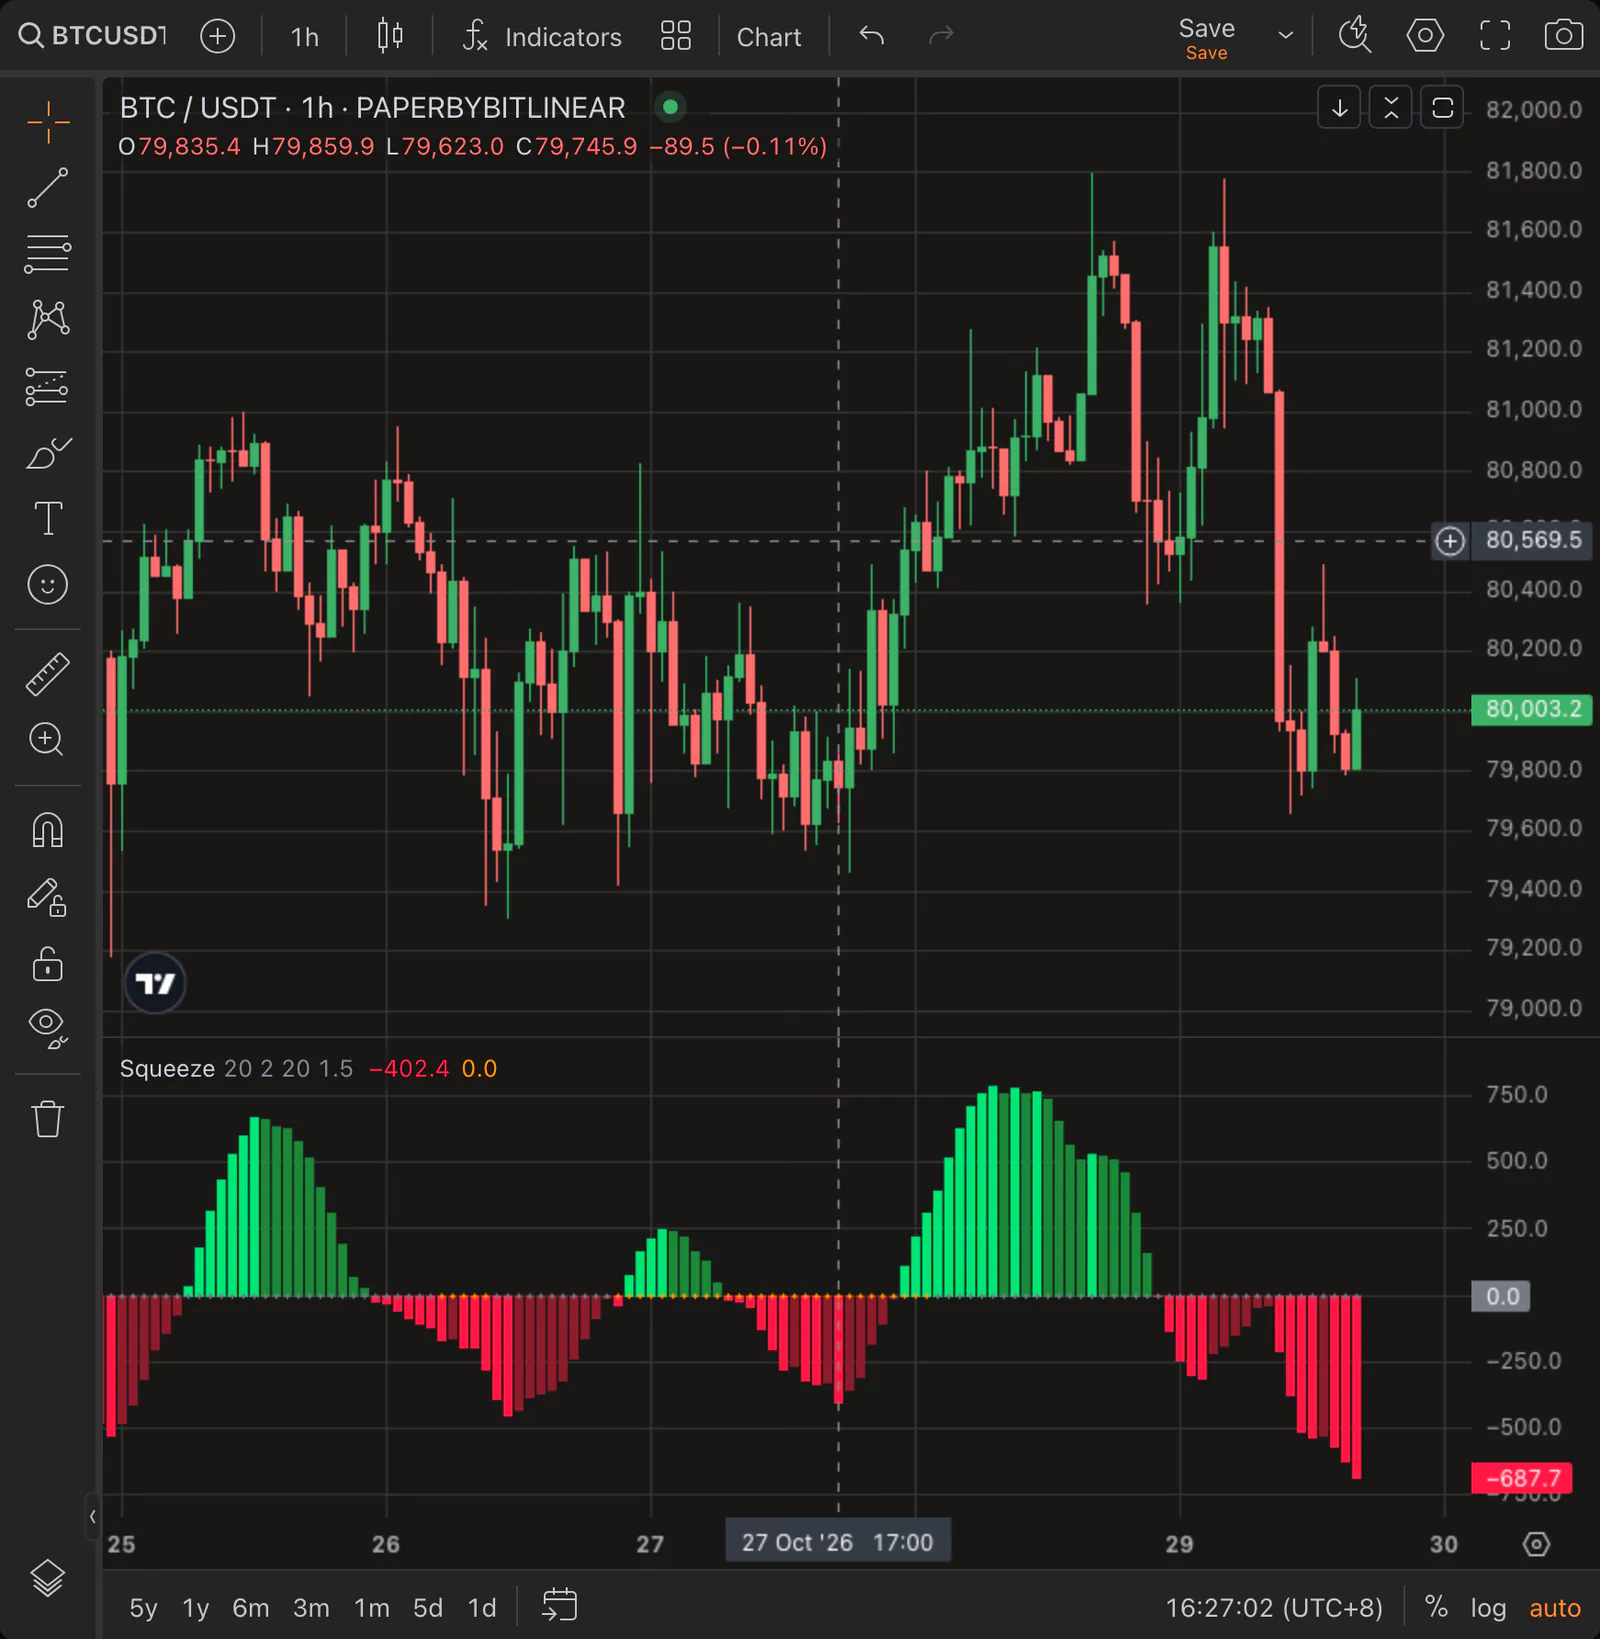
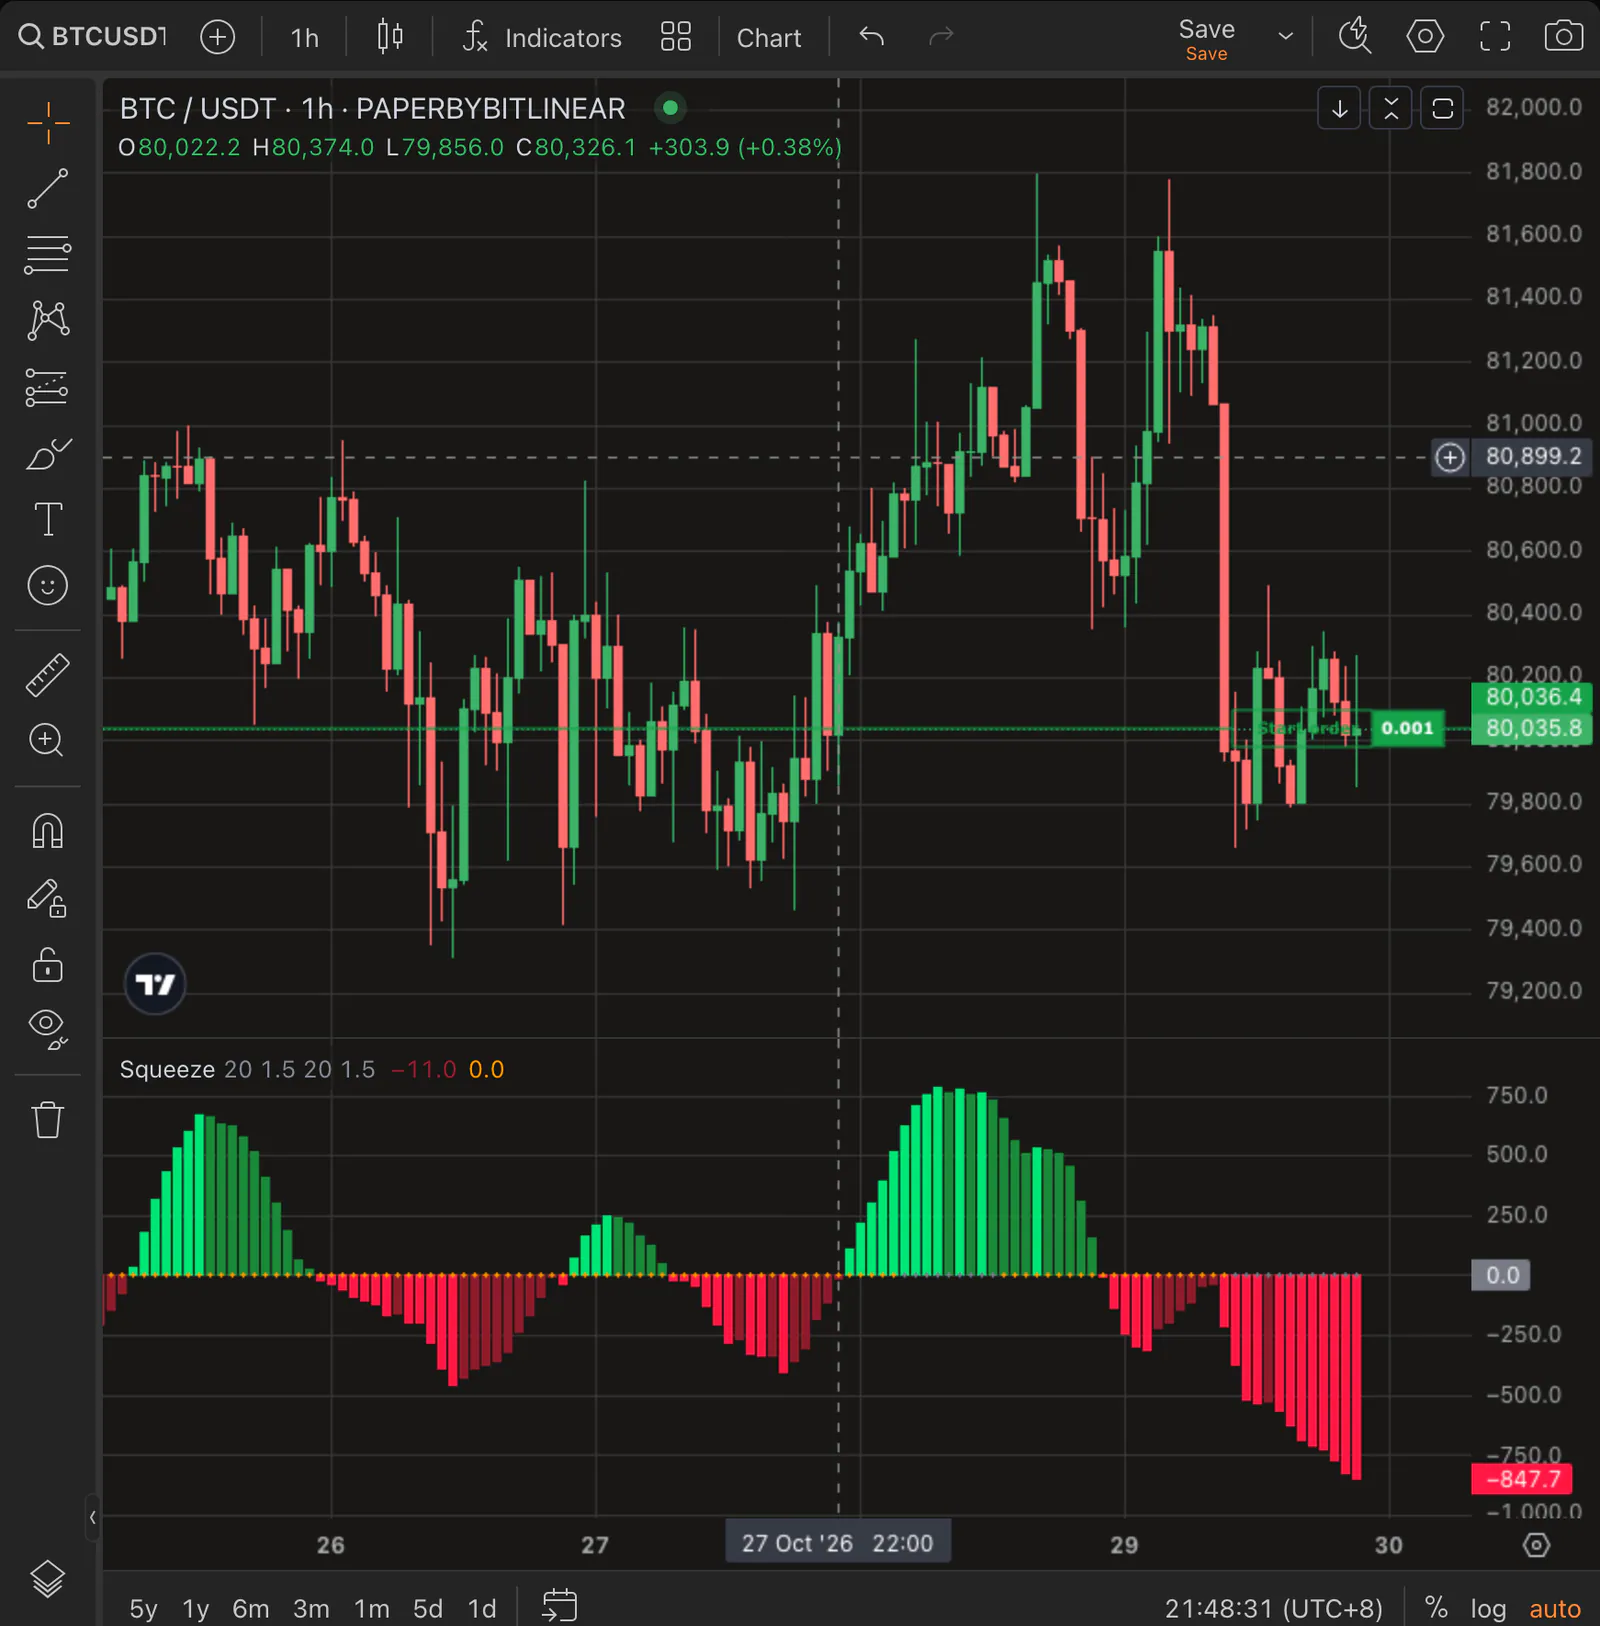
indicators: Squeeze Momentum default BB multiplier 1.5, the TradingView chart
main-dash-sh 2.126.0 / indicators 1.14.0 make 1.5 the default. The page
now says the default matches the script TradingView shows (it reads the
KC multiplier for the Bollinger Bands, so its BB input changes nothing),
with the 7,196-candle BTC/USDT 1h comparison: same squeeze on every
candle, same 124 fired + positive candles. 2 is LazyBear's corrected
version and Carter's TTM.

Settings table regenerated from the catalog; the How to read it numbers,
tips and the first setup restated at 1.5 (BTC/USDT 1h/4h, 2020-09 →
2026-10-28). The early-entry setup now asks for BB multiplier 2: with 2
the squeeze later fired up after 73% of 4h entries, against 58% at 1.5.
Settings card, bot chart and both annotated charts retaken at 1.5 (the
edge chip under the card is cropped off; it reads live data).

Edge recipe: the default row is now the 1.5 setting (same numbers as the
old fired-positive-bb15 row) and every row uses 1.5, matching the bot
params. A BB 2 row was tried for fired-positive and off-rising and
dropped: fired-positive at 2 was behind 1.5 on 1h (-0.03 vs 0.15) and
1d (-0.15 vs 6.07), ahead only on 4h (0.32 vs 0.02); off-rising at 2
was ahead on 1h (0.11 vs 0.08) but behind on 4h (-0.10 vs 0.02) and 1d
(0.96 vs 2.34).

diff --git a/docs/indicators/squeeze-momentum.md b/docs/indicators/squeeze-momentum.md
@@ -7,7 +7,7 @@ description: >-
   Keltner Channels mark a squeeze, a momentum histogram gives the direction,
   and a bot can trade when the squeeze fires.
 createdAt: '2026-10-29T12:00:00.000Z'
-updatedAt: '2026-10-29T12:00:00.000Z'
+updatedAt: '2026-10-29T13:00:00.000Z'
 publishedAt: '2026-10-29T12:00:00.000Z'
 locale: en
 categories:
@@ -22,13 +22,13 @@ ingestedAt: ''
 templateVersion: 2
 tldr: >-
   Squeeze Momentum is LazyBear's version of John Carter's TTM Squeeze. A
-  squeeze is on while the Bollinger Bands (20, 2) sit inside the Keltner
+  squeeze is on while the Bollinger Bands (20, 1.5) sit inside the Keltner
   Channels (20, 1.5 ATR); it fires on the first candle after that. A momentum
   histogram, a linear regression of price against the middle of its range,
   shows the direction. A bot condition combines the squeeze state (fired, in,
   out or any) with the momentum (positive, negative, rising, falling, crossing
-  zero or any). The script TradingView shows draws with a Bollinger multiplier
-  of 1.5; set BB multiplier 1.5 to match its chart.
+  zero or any). The default Bollinger multiplier, 1.5, matches the chart
+  TradingView shows; 2 is LazyBear's corrected version and Carter's original.
 kind: native
 catalogKeys:
   - SQZ
@@ -41,12 +41,14 @@ aliases:
   - "TTM Squeeze"
   - "Squeeze"
 faq:
-  - title: Why do my signals differ from the Squeeze Momentum chart on TradingView?
+  - title: Does it match the Squeeze Momentum chart on TradingView?
     details: >-
-      The script TradingView shows has the Bollinger multiplier fixed at 1.5
-      in its code, whatever its input says. LazyBear published the fix
-      separately. Gainium uses the fixed version, so set BB multiplier to 1.5
-      to match the TradingView chart, or keep 2 for the corrected formula.
+      Yes, with the default settings. The script TradingView shows uses its
+      KC multiplier for the Bollinger Bands too, so its BB MultFactor input
+      changes nothing, and Gainium's default BB multiplier is the same 1.5.
+      If you change KC multiplier, set BB multiplier to the same value to keep
+      matching that chart. Set BB multiplier 2 for LazyBear's corrected
+      version, which TradingView does not show.
   - title: What does Squeeze fired mean?
     details: >-
       The candle before was in a squeeze (Bollinger Bands inside the Keltner
@@ -81,7 +83,7 @@ Squeeze Momentum marks the stretches when Bollinger Bands contract inside the Ke
 
 John Carter described the TTM Squeeze in his book Mastering the Trade. LazyBear published Squeeze Momentum, his open version of it, on TradingView in 2014. It compares two bands around the same 20-candle average:
 
-**Bollinger Bands = SMA(close, 20) ± 2 × standard deviation(close, 20)**
+**Bollinger Bands = SMA(close, 20) ± 1.5 × standard deviation(close, 20)**
 
 **Keltner Channels = SMA(close, 20) ± 1.5 × SMA(true range, 20)**
 
@@ -97,11 +99,11 @@ It is above zero when price sits above the middle of its recent range and its av
 
 How to read it:
 
-- **Squeezes are common.** On BTC/USDT 1h the default settings are in a squeeze on about 35% of candles, and a median squeeze lasts 7 candles.
-- **About half of the fires point up.** On BTC/USDT 1h, momentum is above zero on about 53% of the candles where the squeeze fires.
-- **A fire means movement, not direction.** After a fire with positive momentum on BTC/USDT 4h, price moved 1.5% above the entry within 24 candles after about 70% of fires, and 1.5% below it after about 76%.
+- **Squeezes are the usual state.** On BTC/USDT 1h the default settings are in a squeeze on about 60% of candles, and a median squeeze lasts 14 candles.
+- **About half of the fires point up.** On BTC/USDT 1h, momentum is above zero on about 54% of the candles where the squeeze fires.
+- **A fire means movement, not direction.** After a fire with positive momentum on BTC/USDT 4h, price moved 1.5% above the entry within 24 candles after about 73% of fires, and 1.5% below it after about 71%.
 
-**TradingView's chart uses a multiplier of 1.5.** The script TradingView displays has the Bollinger multiplier fixed at 1.5 in its code, whatever the input says. LazyBear posted the corrected source separately, and Gainium uses that corrected formula. Set **BB multiplier** to 1.5 to get the squeezes TradingView draws.
+**The default matches TradingView's chart.** The Squeeze Momentum script TradingView displays uses its KC multiplier, 1.5, for the Bollinger Bands too, so its BB MultFactor input changes nothing. Gainium's default **BB multiplier** is the same 1.5. On 7,196 BTC/USDT 1h candles, Gainium and TradingView showed the same squeeze on every candle, and the squeeze fired with positive momentum on the same 124 candles. LazyBear posted a corrected source separately, in which the Bollinger multiplier is its own input, and John Carter's TTM Squeeze uses 2 standard deviations. Set **BB multiplier** to 2 for that version.
 
 ![Squeeze Momentum Indicator by LazyBear on BINANCE:BTCUSDT 4h, dark theme: the momentum histogram in green above zero and red below it, with grey crosses on the zero line out of a squeeze and dark crosses in one](https://content.gainium.io/images/content/indicators/squeeze-momentum__chart.webp)
 
@@ -110,7 +112,7 @@ How to read it:
 | Setting | Default | What it does |
 | --- | --- | --- |
 | BB length | 20 | Candles of the Bollinger Bands. |
-| BB multiplier | 2 | Width of the Bollinger Bands in standard deviations. TradingView's published script draws with 1.5; set 1.5 to match its chart. |
+| BB multiplier | 1.5 | Width of the Bollinger Bands in standard deviations. 1.5 (the default) matches the Squeeze Momentum chart TradingView shows; 2 is LazyBear's corrected version. |
 | KC length | 20 | Candles of the Keltner Channels, also the length of the momentum. |
 | KC multiplier | 1.5 | Width of the Keltner Channels as a multiple of the average true range. |
 | Interval | 1 hour | Candle size the squeeze and the momentum are calculated on, from 1 minute to 1 week. |
@@ -118,11 +120,11 @@ How to read it:
 | Momentum | Positive | The momentum histogram: above or below zero, higher or lower than on the candle before, or crossing zero. Both Squeeze and Momentum must hold; they cannot both be Any. |
 | Keep true | 0 | This condition will remain true for a number of extra bars. Default is 0, which means it will be true only on the bar that triggered the condition. |
 
-**Tip:** **BB multiplier** 1.5 instead of 2 puts BTC/USDT 1h in a squeeze on about 60% of candles instead of 35%. Squeezes last twice as long, with a median of 14 candles, and fire about 14% less often.
+**Tip:** **BB multiplier** 2 instead of 1.5 puts BTC/USDT 1h in a squeeze on about 35% of candles instead of 60%. Squeezes last half as long, with a median of 7 candles, and fire about 16% more often.
 
 **Tip:** **Squeeze** Squeeze fired is true on one candle per squeeze. In a squeeze is true on every candle of it, so with Momentum Positive a bot can open deal after deal while the squeeze lasts. Use In a squeeze with a crossing rule, or with a limit on open deals.
 
-**Tip:** **Momentum** Crossing up with Squeeze Any fires on every zero crossing of the histogram. On BTC/USDT 1h that is about 1.4 times as often as Squeeze fired with Positive.
+**Tip:** **Momentum** Crossing up with Squeeze Any fires on every zero crossing of the histogram. On BTC/USDT 1h that is about 1.6 times as often as Squeeze fired with Positive.
 
 ## Trading setups for bots
 
@@ -130,9 +132,9 @@ How to read it:
 
 - **Entry:** Squeeze Momentum, Squeeze **Squeeze fired**, Momentum **Positive**, default lengths and multipliers, Interval 4 hours.
 - **Exit:** take profit 1.5%, with a stop loss of 1.5% to 2%.
-- **Settings:** BB multiplier 2. With 1.5 the squeezes are longer and fire about 14% less often.
-- **Timeframe:** 4 hours. Price moved 1.5% above the entry within 24 candles after about 70% of the 4h fires, against 49% on 1h.
-- **When it fails:** when the breakout reverses. Price also moved 1.5% below the entry within 24 candles after about 76% of the 4h fires, so the move after a fire runs both ways. Keep the stop loss, or add a trend filter such as the Moving Averages trend filter.
+- **Settings:** the defaults, BB multiplier 1.5. With 2 the 4h squeezes fire about 6% more often, and price moved 1.5% below the entry after more of those fires (about 76%) than 1.5% above it (about 70%).
+- **Timeframe:** 4 hours. Price moved 1.5% above the entry within 24 candles after about 73% of the 4h fires, against 51% on 1h.
+- **When it fails:** when the breakout reverses. Price also moved 1.5% below the entry within 24 candles after about 71% of the 4h fires, so the move after a fire runs both ways. Keep the stop loss, or add a trend filter such as the Moving Averages trend filter.
 
 In the chart below, the first grey cross after a run of orange ones came with momentum already above zero. The squeeze fired there, and price climbed about 1% over the next day.
 
@@ -140,15 +142,15 @@ In the chart below, the first grey cross after a run of orange ones came with mo
 
 ### Enter early: momentum crosses up inside the squeeze
 
-- **Entry:** Squeeze Momentum, Squeeze **In a squeeze**, Momentum **Crossing up**, Interval 4 hours.
+- **Entry:** Squeeze Momentum, **BB multiplier** 2, Squeeze **In a squeeze**, Momentum **Crossing up**, Interval 4 hours.
 - **Exit:** take profit 1.5%, with a stop loss of 1.5% to 2%.
-- **Settings:** the defaults. The condition is true only on the candle the histogram crosses zero, so it opens one deal per crossing.
-- **Timeframe:** 4 hours. After about 73% of these entries on BTC/USDT 4h, the squeeze later fired with positive momentum; on 1h it was about 66%.
+- **Settings:** BB multiplier 2, the other fields at their defaults. With 2 the squeezes are shorter, so a crossing inside one comes closer to the fire. The condition is true only on the candle the histogram crosses zero, so it opens one deal per crossing.
+- **Timeframe:** 4 hours. After about 73% of these entries on BTC/USDT 4h, the squeeze later fired with positive momentum; on 1h it was about 66%. With the default 1.5 it was about 58% on 4h.
 - **When it fails:** when the squeeze fires down. The entry comes before the breakout, so about a quarter of the 4h entries were early longs into a fall. Price moved 1.5% below the entry within 24 candles after about 71% of them.
 
-In the chart below, momentum crossed up zero while the crosses were still orange, three candles before the squeeze fired.
+In the chart below, with the default 1.5, momentum crossed up zero while the crosses were still orange, five candles before the squeeze fired. With BB multiplier 2 the same squeeze fired two candles earlier.
 
-![Annotated Gainium bot chart, BTC/USDT 1h, with Squeeze Momentum: the first green histogram bar after a red stretch is ringed while the zero-line crosses are still orange, three candles before the squeeze fires](https://content.gainium.io/images/content/indicators/squeeze-momentum__cross-up.webp)
+![Annotated Gainium bot chart, BTC/USDT 1h, with Squeeze Momentum: the first green histogram bar after a red stretch is ringed while the zero-line crosses are still orange, five candles before the squeeze fires](https://content.gainium.io/images/content/indicators/squeeze-momentum__cross-up.webp)
 
 ## Using Squeeze Momentum in Gainium
 
@@ -161,7 +163,7 @@ In the chart below, momentum crossed up zero while the crosses were still orange
 The fields and their defaults:
 
 - **BB length:** 20, from 2 to 500.
-- **BB multiplier:** 2, from 0.1 to 10, in steps of 0.1.
+- **BB multiplier:** 1.5, from 0.1 to 10, in steps of 0.1.
 - **KC length:** 20, from 2 to 500. It is also the momentum length.
 - **KC multiplier:** 1.5, from 0.1 to 10.
 - **Interval:** 1 hour.
@@ -169,15 +171,15 @@ The fields and their defaults:
 - **Momentum:** Positive. Or Negative, Rising, Falling, Crossing up, Crossing down or Any.
 - **Keep true:** 0 extra candles.
 
-![The Squeeze Momentum settings card in the Gainium bot form with its defaults: BB length 20, BB multiplier 2, KC length 20, KC multiplier 1.5, Interval 1 hour, Squeeze fired, Momentum Positive, Keep true 0](https://content.gainium.io/images/content/indicators/squeeze-momentum__settings.webp)
+![The Squeeze Momentum settings card in the Gainium bot form with its defaults: BB length 20, BB multiplier 1.5, KC length 20, KC multiplier 1.5, Interval 1 hour, Squeeze fired, Momentum Positive, Keep true 0](https://content.gainium.io/images/content/indicators/squeeze-momentum__settings.webp)
 
 The bot-form chart draws the histogram in LazyBear's four colours and puts a cross on the zero line for every candle: orange in a squeeze, grey out of one, and blue when neither holds. LazyBear's original draws the in-squeeze crosses black, which does not show on a dark chart.
 
-![The Gainium bot-form chart, BTC/USDT 1h, with Squeeze 20 2 20 1.5: the momentum histogram in bright and dark green and red, with orange and grey crosses on the zero line](https://content.gainium.io/images/content/indicators/squeeze-momentum__bot-chart.webp)
+![The Gainium bot-form chart, BTC/USDT 1h, with Squeeze 20 1.5 20 1.5: the momentum histogram in bright and dark green and red, with orange and grey crosses on the zero line](https://content.gainium.io/images/content/indicators/squeeze-momentum__bot-chart.webp)
 
 Squeeze Momentum works as a deal start, DCA, take profit or stop loss condition, and in the Bot Controller. The backtest draws it on every deal chart.
 
-Example configuration for the first setup: BB length 20, BB multiplier 2, KC length 20, KC multiplier 1.5, Interval 4 hours, Squeeze fired, Momentum Positive, Keep true 0, take profit 1.5%.
+Example configuration for the first setup: BB length 20, BB multiplier 1.5, KC length 20, KC multiplier 1.5, Interval 4 hours, Squeeze fired, Momentum Positive, Keep true 0, take profit 1.5%.
 
 ## Related indicators
 
